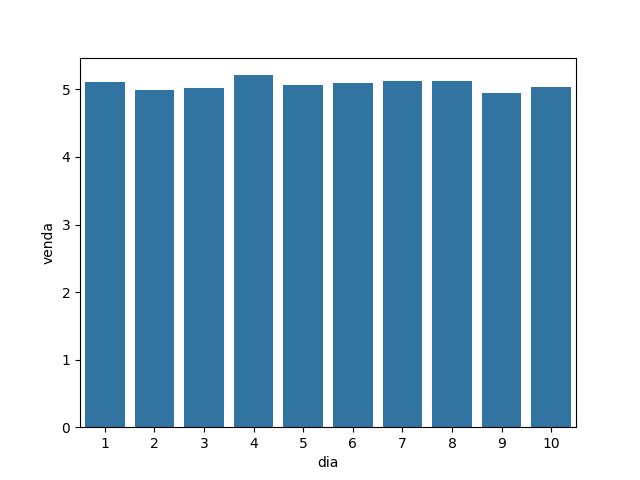
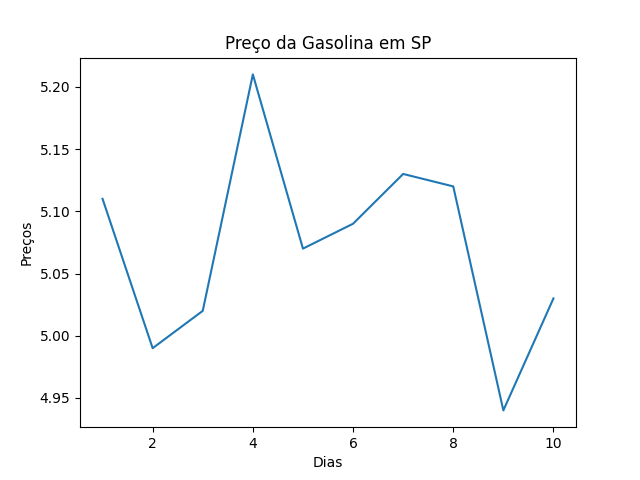
Adicionando gasolina.py; gasolina.png ; gasolina.csv

diff --git a/gasolina.py b/gasolina.py
@@ -1,14 +1,16 @@
-# código de geração do gráfico 
+# código de geração do gráfico
 
 import seaborn as sns
 import pandas as pd
-import matplotlib.pyplot as plt 
+import matplotlib.pyplot as plt
 
 # Lendo o arquivo csv
 gasolina_df = pd.read_csv('gasolina.csv')
 
 # gerando o grafico
-grafico = sns.barplot(data=gasolina_df, x='dia', y='venda')
+grafico = sns.lineplot(data=gasolina_df, x='dia', y='venda')
+grafico.set(title='Preço da Gasolina em SP', xlabel='Dias', ylabel='Preços')
+
 
 # salvando o grafico
 plt.savefig('gasolina.png')
